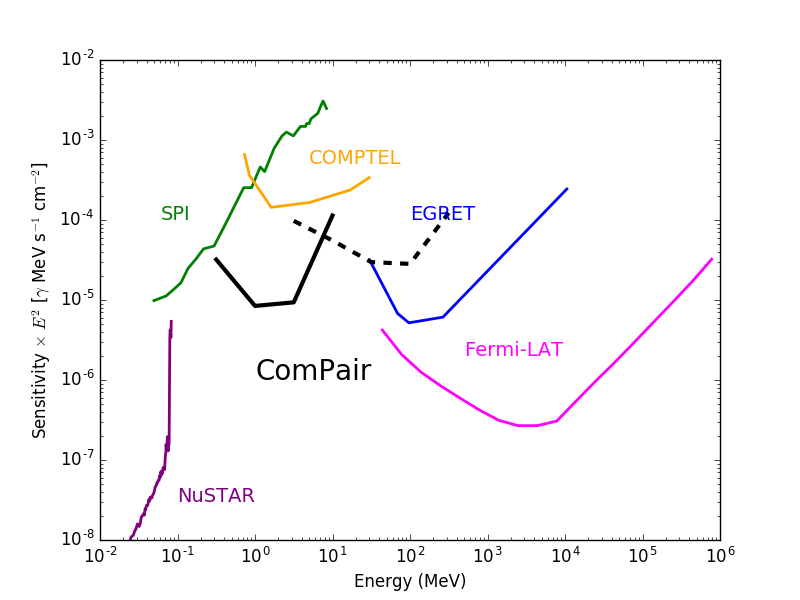
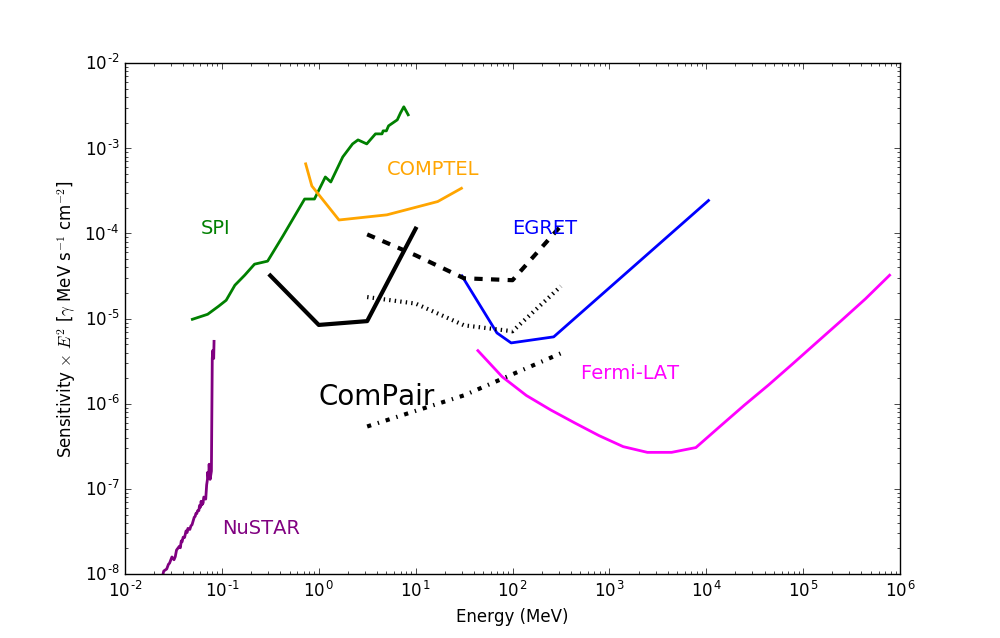
hardcoding ideal cases

diff --git a/FigureOfMeritPlotter.py b/FigureOfMeritPlotter.py
@@ -885,6 +885,7 @@ def plotSourceSensitivity(data, angleSelection=0.7, xlog=True, ylog=True, save=F
 	EffectiveArea_Tracked = []
 	EffectiveArea_Untracked  = []
 	EffectiveArea_Pair  = []
+	EffectiveArea_Pair_ideal  = []
 
 	FWHM_tracked = []
 	FWHM_untracked = []
@@ -902,7 +903,7 @@ def plotSourceSensitivity(data, angleSelection=0.7, xlog=True, ylog=True, save=F
 			numberOfReconstructedEvents_tracked = float(data[key][1][-1])
 			numberOfReconstructedEvents_untracked = float(data[key][2][-1])
 			numberOfReconstructedEvents_pair = float(data[key][3][-1])
-			#numberOfReconstructedEvents_pair = 100000.
+			numberOfReconstructedEvents_pair_ideal = 100000.
             
 			# Get the angular resolution
 			fwhm_tracked = data[key][1][7]
@@ -913,12 +914,14 @@ def plotSourceSensitivity(data, angleSelection=0.7, xlog=True, ylog=True, save=F
 			effectiveArea_tracked = (numberOfReconstructedEvents_tracked/numberOfSimulatedEvents) * math.pi * 300**2
 			effectiveArea_untracked = (numberOfReconstructedEvents_untracked/numberOfSimulatedEvents) * math.pi * 300**2
 			effectiveArea_pair = (numberOfReconstructedEvents_pair/numberOfSimulatedEvents) * math.pi * 300**2
+			effectiveArea_pair_ideal = (numberOfReconstructedEvents_pair_ideal/numberOfSimulatedEvents) * math.pi * 300**2
 
 			# Store the effective area results
 			Energy.append(energy)
 			EffectiveArea_Tracked.append(effectiveArea_tracked)
 			EffectiveArea_Untracked.append(effectiveArea_untracked)
 			EffectiveArea_Pair.append(effectiveArea_pair)
+			EffectiveArea_Pair_ideal.append(effectiveArea_pair_ideal)
 
 			# Store the angular resolution results
 			FWHM_tracked.append(fwhm_tracked)
@@ -932,6 +935,7 @@ def plotSourceSensitivity(data, angleSelection=0.7, xlog=True, ylog=True, save=F
 	EffectiveArea_Tracked = numpy.array(EffectiveArea_Tracked)
 	EffectiveArea_Untracked = numpy.array(EffectiveArea_Untracked)
 	EffectiveArea_Pair = numpy.array(EffectiveArea_Pair)
+	EffectiveArea_Pair_ideal = numpy.array(EffectiveArea_Pair_ideal)
 
 	FWHM_tracked = numpy.array(FWHM_tracked)
 	FWHM_untracked = numpy.array(FWHM_untracked)
@@ -943,17 +947,20 @@ def plotSourceSensitivity(data, angleSelection=0.7, xlog=True, ylog=True, save=F
 	EffectiveArea_Tracked = EffectiveArea_Tracked[i]
 	EffectiveArea_Untracked = EffectiveArea_Untracked[i]
 	EffectiveArea_Pair = EffectiveArea_Pair[i]
+	EffectiveArea_Pair_ideal = EffectiveArea_Pair_ideal[i]
 
 	FWHM_tracked = FWHM_tracked[i]
 	FWHM_untracked = FWHM_untracked[i]
 	Containment68 = Containment68[i]
-	#Containment68 = 1.0
+	Containment68_idealang = 1.0
     
 	print Energy
 
 	Sensitivity_tracked = Isrc(Energy, exposure, EffectiveArea_Tracked, 3., omega(FWHM_tracked), background)
 	Sensitivity_untracked = Isrc(Energy, exposure, EffectiveArea_Untracked, 3., omega(FWHM_untracked), background)
 	Sensitivity_pair = Isrc(Energy, exposure, EffectiveArea_Pair, 3., omega(Containment68), background)
+	Sensitivity_pair_ideal = Isrc(Energy, exposure, EffectiveArea_Pair_ideal, 3., omega(Containment68), background)
+	Sensitivity_pair_idealang = Isrc(Energy, exposure, EffectiveArea_Pair_ideal, 3., omega(Containment68_idealang), background)
 
 	plot.figure(figsize=(10, 6.39))
 	ax = plot.subplot(111)
@@ -978,10 +985,10 @@ def plotSourceSensitivity(data, angleSelection=0.7, xlog=True, ylog=True, save=F
 	if save == True:
 		plot.savefig('SourceSensitivity.png', bbox_inches='tight')
 
-#	if doplot == True:
-#		plot.show()
+	if doplot == True:
+		plot.show()
 
-	return Energy, Sensitivity_tracked, Sensitivity_untracked, Sensitivity_pair
+	return Energy, Sensitivity_tracked, Sensitivity_untracked, Sensitivity_pair, Sensitivity_pair_ideal, Sensitivity_pair_idealang
 
 
 ##########################################################################################
@@ -1000,7 +1007,8 @@ def plotAllSourceSensitivities(data, angleSelection=0.8, xlog=True, ylog=True, s
 	erg2mev=624151.
 	lateng=(l["emin"]+l["emax"])/2.
 
-	plot.figure()
+	plot.clf()
+#	plot.figure()
 	#LAT
 	plot.plot(lateng,l["e2diff"]*erg2mev,color='magenta',lw=2)
 	plot.gca().set_xscale('log')
@@ -1037,13 +1045,19 @@ def plotAllSourceSensitivities(data, angleSelection=0.8, xlog=True, ylog=True, s
 	tracked=ComPairSensitivity[1]#numpy.array([  1.54877155e-05,   4.84546681e-06,   5.28735667e-06, 6.53265846e-05, 0, 0, 0])
 	untracked=ComPairSensitivity[2]#numpy.array([  2.49626245e-06,   1.82264874e-06,   1.54100276e-05, 9.59603201e-05, 0, 0, 0])
 	pair=ComPairSensitivity[3]#numpy.array([ 0, 0,   5.62236032e-05, 3.19254897e-05,   1.71183233e-05,   1.61203804e-05, 2.19339e-05])
-	w=tracked > 0
-	plot.plot(compair_eng[w],tracked[w],color='black',lw=3)
-	w=pair > 0
-	plot.plot(compair_eng[w],pair[w],'r--',color='black',lw=3)
+	pair_ideal=ComPairSensitivity[4]
+	pair_idealang=ComPairSensitivity[5]
+	w1=tracked > 0
+	plot.plot(compair_eng[w1],tracked[w1],color='black',lw=3)
+	w2=pair > 0
+	plot.plot(compair_eng[w2],pair[w2],'r--',color='black',lw=3)
+	w3=pair_ideal > 0
+	plot.plot(compair_eng[w3],pair_ideal[w3],'r:',color='black',lw=3)
+	plot.plot(compair_eng[2:],pair_idealang[2:],'r-.',color='black',lw=3)
 	plot.annotate('ComPair', xy=(1,1e-6),xycoords='data',fontsize=20)
 
-	plot.savefig('new_sensitivity.png')
+	if save == True:
+		plot.savefig('new_sensitivity.png')
 	plot.show()
 
 	return
